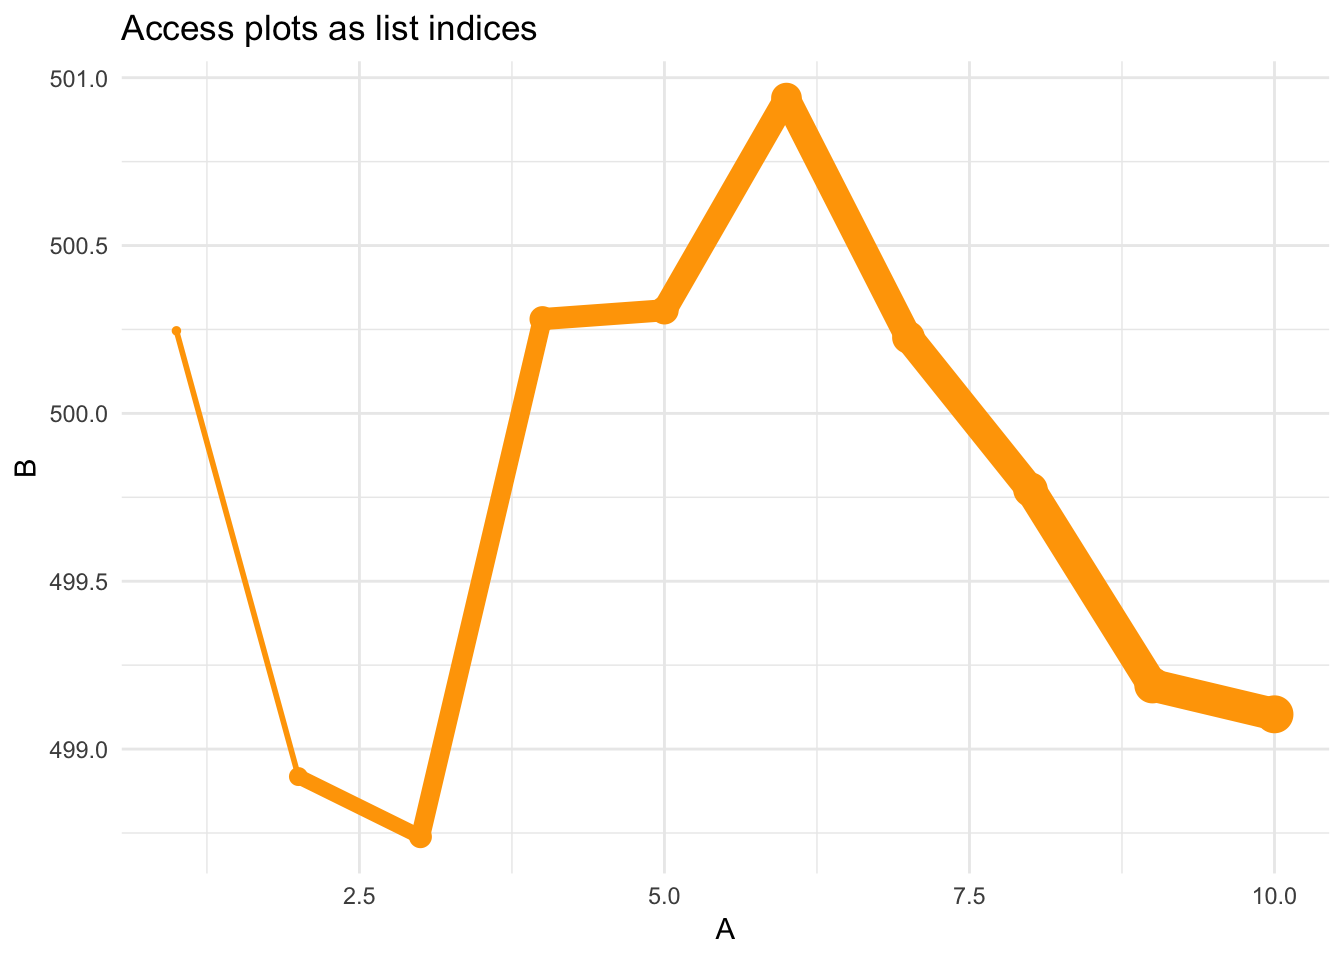
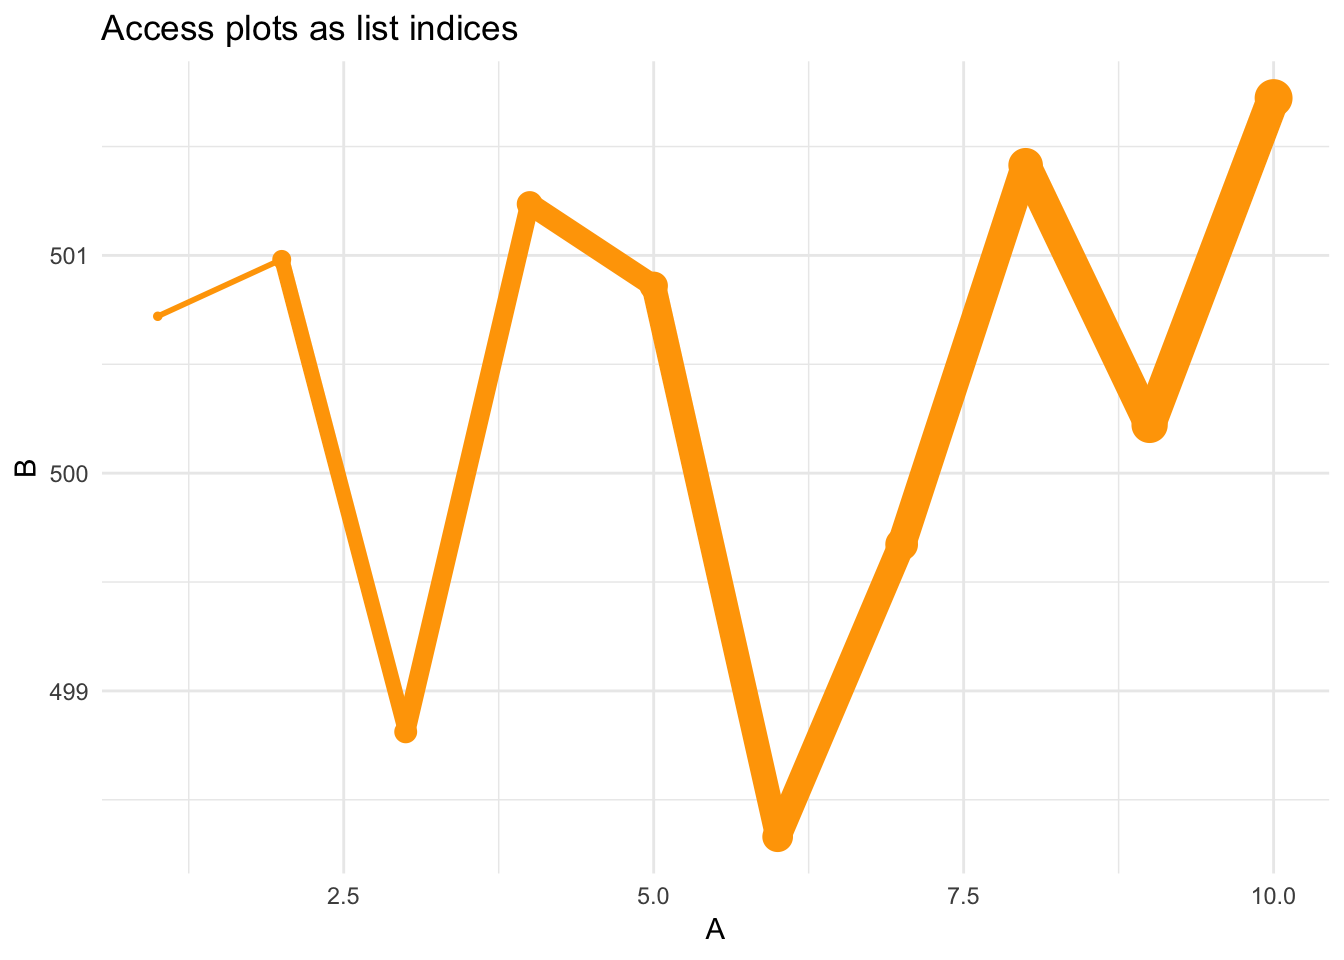
L6 update header

diff --git a/docs/Lesson6.html b/docs/Lesson6.html
@@ -467,7 +467,7 @@ div.tocify {
 <h1>Lesson 6: Lists, lists, lists and applying functions with <code>purrr</code></h1>
 <p> </p>
 <p>Functions for Lesson 6<br />
-<code>map</code>, <code>map2</code><br />
+<code>map</code>, <code>pluck</code>, <code>keep</code>, <code>discard</code>, <code>compact</code><br />
  </p>
 <p>Packages for Lesson 6<br />
 <code>dplyr</code>, <code>purrr</code><br />
@@ -502,29 +502,29 @@ nyc &lt;-<span class="st"> </span>nyc[nyc<span class="op">$</span>id <span class
 s2 &lt;-<span class="st"> </span><span class="kw">rnorm</span>(<span class="dv">10</span>, <span class="dv">500</span>)  <span class="co"># sample 10 normally distributed random numbers around a mean of 500 </span>
 s3 &lt;-<span class="st"> </span><span class="kw">runif</span>(<span class="dv">10</span>)  <span class="co"># random uniform distribution</span>
 s1</code></pre></div>
-<pre><code> [1]  1  4  6  9  7  8  3  5 10  2</code></pre>
+<pre><code> [1]  2  6  9  5 10  4  1  3  8  7</code></pre>
 <div class="sourceCode"><pre class="sourceCode r"><code class="sourceCode r">s2</code></pre></div>
-<pre><code> [1] 500.2460 500.2809 500.9392 499.1901 500.2264 499.7727 498.7389 500.3072 499.1036 498.9181</code></pre>
+<pre><code> [1] 500.9817 498.3303 500.2217 500.8603 501.7225 501.2358 500.7204 498.8120 501.4141 499.6728</code></pre>
 <div class="sourceCode"><pre class="sourceCode r"><code class="sourceCode r">s3</code></pre></div>
-<pre><code> [1] 0.54222658 0.56274886 0.08820573 0.85006973 0.47840211 0.82005969 0.71615639 0.44915482
- [9] 0.46046692 0.64506884</code></pre>
+<pre><code> [1] 0.13106599 0.24596661 0.04833375 0.22511290 0.37415717 0.77044256 0.25411850 0.39270142
+ [9] 0.42283829 0.89124000</code></pre>
 <p>Now combine these into a list using <code>list()</code></p>
 <div class="sourceCode"><pre class="sourceCode r"><code class="sourceCode r">ls1 &lt;-<span class="st"> </span><span class="kw">list</span>(s1, s2, s3)  <span class="co"># create a list of these data</span>
 ls1</code></pre></div>
 <pre><code>[[1]]
- [1]  1  4  6  9  7  8  3  5 10  2
+ [1]  2  6  9  5 10  4  1  3  8  7
 
 [[2]]
- [1] 500.2460 500.2809 500.9392 499.1901 500.2264 499.7727 498.7389 500.3072 499.1036 498.9181
+ [1] 500.9817 498.3303 500.2217 500.8603 501.7225 501.2358 500.7204 498.8120 501.4141 499.6728
 
 [[3]]
- [1] 0.54222658 0.56274886 0.08820573 0.85006973 0.47840211 0.82005969 0.71615639 0.44915482
- [9] 0.46046692 0.64506884</code></pre>
+ [1] 0.13106599 0.24596661 0.04833375 0.22511290 0.37415717 0.77044256 0.25411850 0.39270142
+ [9] 0.42283829 0.89124000</code></pre>
 <div class="sourceCode"><pre class="sourceCode r"><code class="sourceCode r">ls1 <span class="op">%&gt;%</span><span class="st"> </span>str</code></pre></div>
 <pre><code>List of 3
- $ : int [1:10] 1 4 6 9 7 8 3 5 10 2
- $ : num [1:10] 500 500 501 499 500 ...
- $ : num [1:10] 0.5422 0.5627 0.0882 0.8501 0.4784 ...</code></pre>
+ $ : int [1:10] 2 6 9 5 10 4 1 3 8 7
+ $ : num [1:10] 501 498 500 501 502 ...
+ $ : num [1:10] 0.1311 0.246 0.0483 0.2251 0.3742 ...</code></pre>
 </div>
 <div id="exercise-0" class="section level1">
 <h1>Exercise 0</h1>
